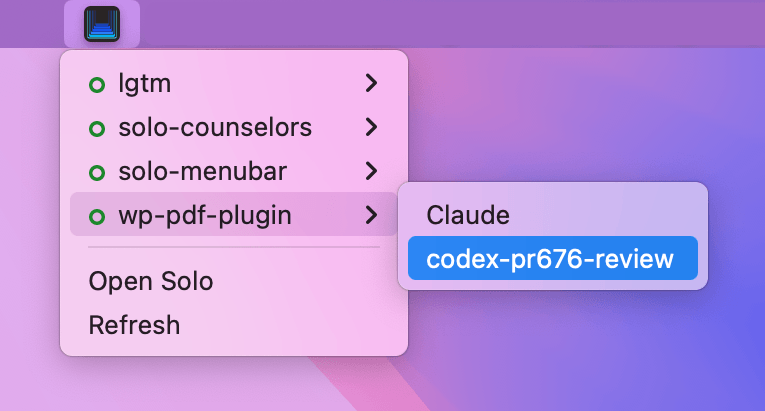
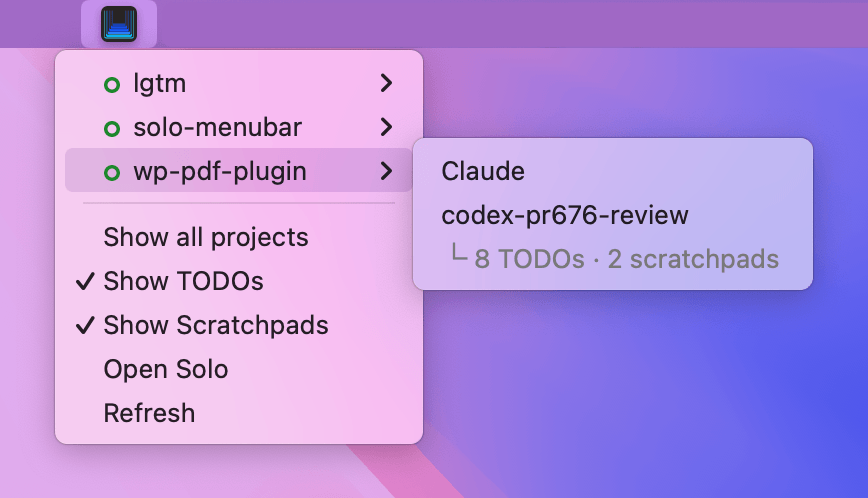
Add menu toggles and refresh-on-open; rename to solo-menubar.py
- Rename solo.5s.py -> solo-menubar.py and drop the filename interval, adding
  swiftbar.refreshOnOpen so the menu refreshes when opened instead of polling
  every 5s. The bar icon is static, so background polling bought nothing.
- Switch to GET /projects and add a "Show all projects" toggle; idle projects
  render with a grey ring, dimmed but readable.
- Add "Show TODOs" and "Show Scratchpads" toggles showing per-project counts of
  open todos and unarchived scratchpads in a combined "└ N TODOs · M
  scratchpads" row, via Solo's authenticated /api endpoints using the token
  from the local discovery file (still no user setup).
- Persist toggle state in ~/.config/solo-menubar/settings.json; all off by
  default.
- Deep-link the counts row to the project like the header, since a bare
  solo://proj/{id} opens Settings rather than the project.
- Harden menu output against "|" and newlines in project/process names.
- Update README and refresh the screenshot.

diff --git a/README.md b/README.md
@@ -2,7 +2,7 @@
 
 A tiny macOS menu bar widget that shows which of your [Solo](https://soloterm.com) projects have a **running agent or process** — and lets you jump straight into any of them with a single click.
 
-Built as a [SwiftBar](https://github.com/swiftbar/SwiftBar) (or [xbar](https://github.com/matryer/xbar)) plugin. Pure Python, no third‑party dependencies, no API token.
+Built as a [SwiftBar](https://github.com/swiftbar/SwiftBar) (or [xbar](https://github.com/matryer/xbar)) plugin. Pure Python, no third‑party dependencies, no remote requests.
 
 ![Solo Menubar showing active projects in a SwiftBar dropdown](assets/screenshot.png)
 
@@ -10,8 +10,9 @@ Built as a [SwiftBar](https://github.com/swiftbar/SwiftBar) (or [xbar](https://g
 
 - Puts the Solo logo in your menu bar.
 - Click it to see every project that currently has at least one **running** process (i.e. an "active" project).
+- Optional toggles (all off by default) to also list idle projects and show per‑project TODO / scratchpad counts — see [Options](#options) below.
 - Each project — and each individual agent/terminal under it — is a clickable **deep link** that opens Solo focused on that exact process.
-- Refreshes automatically every 5 seconds.
+- Refreshes the moment you open the menu — no background polling.
 - Shows a friendly *"Solo not running"* state when Solo is closed or its HTTP API is off.
 
 ## Requirements
@@ -23,7 +24,7 @@ Built as a [SwiftBar](https://github.com/swiftbar/SwiftBar) (or [xbar](https://g
 
 ### Enable Solo's HTTP API
 
-The plugin reads Solo's local control plane. Enable the HTTP API in Solo's settings — Solo then writes a discovery file to `~/.config/soloterm/http-api.json`. The plugin only uses the **read‑only, unauthenticated** endpoints, so it never needs your API token.
+The plugin reads Solo's local control plane. Enable the HTTP API in Solo's settings — Solo then writes a discovery file to `~/.config/soloterm/http-api.json`, which the plugin reads to find the API.
 
 ## Installation
 
@@ -32,50 +33,53 @@ The plugin reads Solo's local control plane. Enable the HTTP API in Solo's setti
 git clone https://github.com/slaFFik/solo-menubar.git ~/Projects/solo-menubar
 
 # 2. Make sure it's executable
-chmod +x ~/Projects/solo-menubar/solo.5s.py
+chmod +x ~/Projects/solo-menubar/solo-menubar.py
 
 # 3. Symlink it into your SwiftBar plugin folder
-ln -s ~/Projects/solo-menubar/solo.5s.py ~/Documents/SwiftBar/solo.5s.py
+ln -s ~/Projects/solo-menubar/solo-menubar.py ~/Documents/SwiftBar/solo-menubar.py
 ```
 
 Point SwiftBar at your plugin folder (e.g. `~/Documents/SwiftBar`) and the icon appears right away. SwiftBar follows the symlink, so you can keep editing the file in the repo and SwiftBar always runs the latest version.
 
 ## How it works
 
-Every 5 seconds the plugin:
+Each time you open the menu (and once on launch), the plugin:
 
 1. Reads `origin` from `~/.config/soloterm/http-api.json` (falls back to `http://127.0.0.1:24678`), so it survives Solo restarting on a different port.
-2. Calls `GET /processes` — Solo's no‑auth local endpoint.
-3. Groups processes by project and keeps any project that has a process whose `status` is `running`.
+2. Calls `GET /projects` — Solo's no‑auth local endpoint listing every project and its processes.
+3. Keeps any project that has a process whose `status` is `running` (or all projects, if you toggle that on).
 4. Renders a clickable deep link per project/process:
    `solo://proj/{project_id}/process/{slug}--{process_id}`
 
-The deep‑link *slug* is cosmetic — Solo resolves the target by the trailing process id — and that id is Solo's stable database id, so links keep working even after a process restarts.
+It refreshes on open via SwiftBar's `refreshOnOpen` flag, so the list is always current the instant you click — without polling Solo in the background.
 
 ## Configuration
 
-**Refresh interval** — encoded in the filename. Rename the file to change it:
+**Refresh** — by default the file is named `solo-menubar.py` (no interval), so SwiftBar refreshes it only when you open the menu. The menu bar icon is static, so background polling buys nothing. If you *do* want it to poll as well, encode an interval in the filename:
 
-| Filename | Interval |
+| Filename | Behavior |
 | --- | --- |
-| `solo.2s.py` | 2 seconds |
-| `solo.5s.py` | 5 seconds *(default)* |
-| `solo.10s.py` | 10 seconds |
-| `solo.1m.py` | 1 minute |
+| `solo-menubar.py` | Refresh on menu open only *(default)* |
+| `solo-menubar.10s.py` | Also poll every 10 seconds |
+| `solo-menubar.1m.py` | Also poll every minute |
 
-**Menu bar icon** — the icon is a base64‑encoded PNG embedded in the script (`ICON_B64`) so SwiftBar doesn't mistake a sidecar image file for another plugin. To swap it, regenerate the constant from any PNG:
+(Rename the symlink in your SwiftBar plugin folder — SwiftBar reads the interval from the filename it sees there.)
 
-```bash
-python3 -c "import base64;print(base64.b64encode(open('icon.png','rb').read()).decode())"
-```
+### Options
 
-> **Tip:** bake a Retina‑friendly resolution into the PNG so it fits the menu bar. `sips -s dpiWidth 144 -s dpiHeight 144 icon.png` makes a 36px image render at 18pt — the macOS menu‑bar sweet spot.
+Toggles at the bottom of the menu. All are **off by default**, and your choices are remembered between launches.
+
+| Option | What it does |
+| --- | --- |
+| **Show all projects** | List every project, not just those with a running process. Idle projects appear greyed out. |
+| **Show TODOs** | Under each project, show its number of open TODOs (only when above zero). |
+| **Show Scratchpads** | Under each project, show its number of scratchpads (only when above zero). |
 
 ## Troubleshooting
 
 - **"Solo not running or HTTP API off"** — start Solo and enable its HTTP API in settings.
 - **Nothing shows in the menu bar** — confirm SwiftBar's plugin folder is set, the file is executable (`chmod +x`), and `python3` is installed (`xcode-select --install`).
-- **Menu doesn't update while it's open** — macOS renders a menu at the moment you open it; close and reopen to see fresh data. The data itself keeps refreshing in the background.
+- **Menu doesn't update while it's open** — macOS renders a menu at the moment you open it; the plugin re‑reads Solo on each open, so just close and reopen to see fresh data.
 
 ## Credits
 